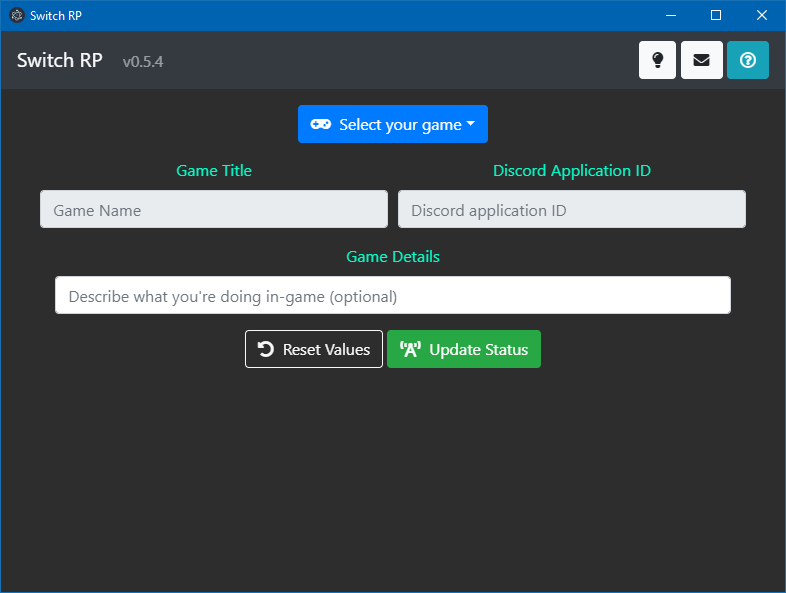
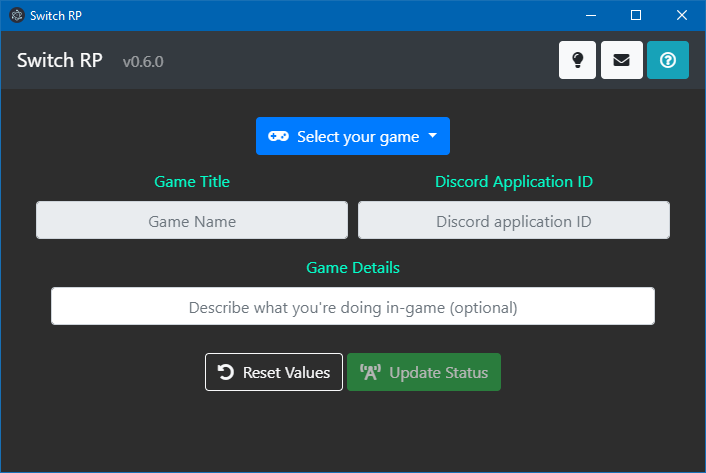
Corrected Readme images not showing

diff --git a/README.md b/README.md
@@ -3,8 +3,8 @@
 
 Switch RP (Rich Presence) is an electron application for that allows users to update their game status via Discord's Rich Presence. This application was created because I wanted to share with other Discord users when I was playing on my Switch, but wanted an easier way to update my status apart from going into the settings every time.
 
-![Switch RP main screen](./docs/readme/img/mainScreen.png)
-_Image of the main screen as of v0.5.4_
+![Switch RP main screen](./docs/readme/img/mainScreen.PNG)
+_Image of the main screen as of v0.6.0_
 
 ## Prerequisites
 This application requires the desktop version of Discord. If you don't already have it installed, you can download a fresh copy from [Discord](https://discordapp.com/download).
